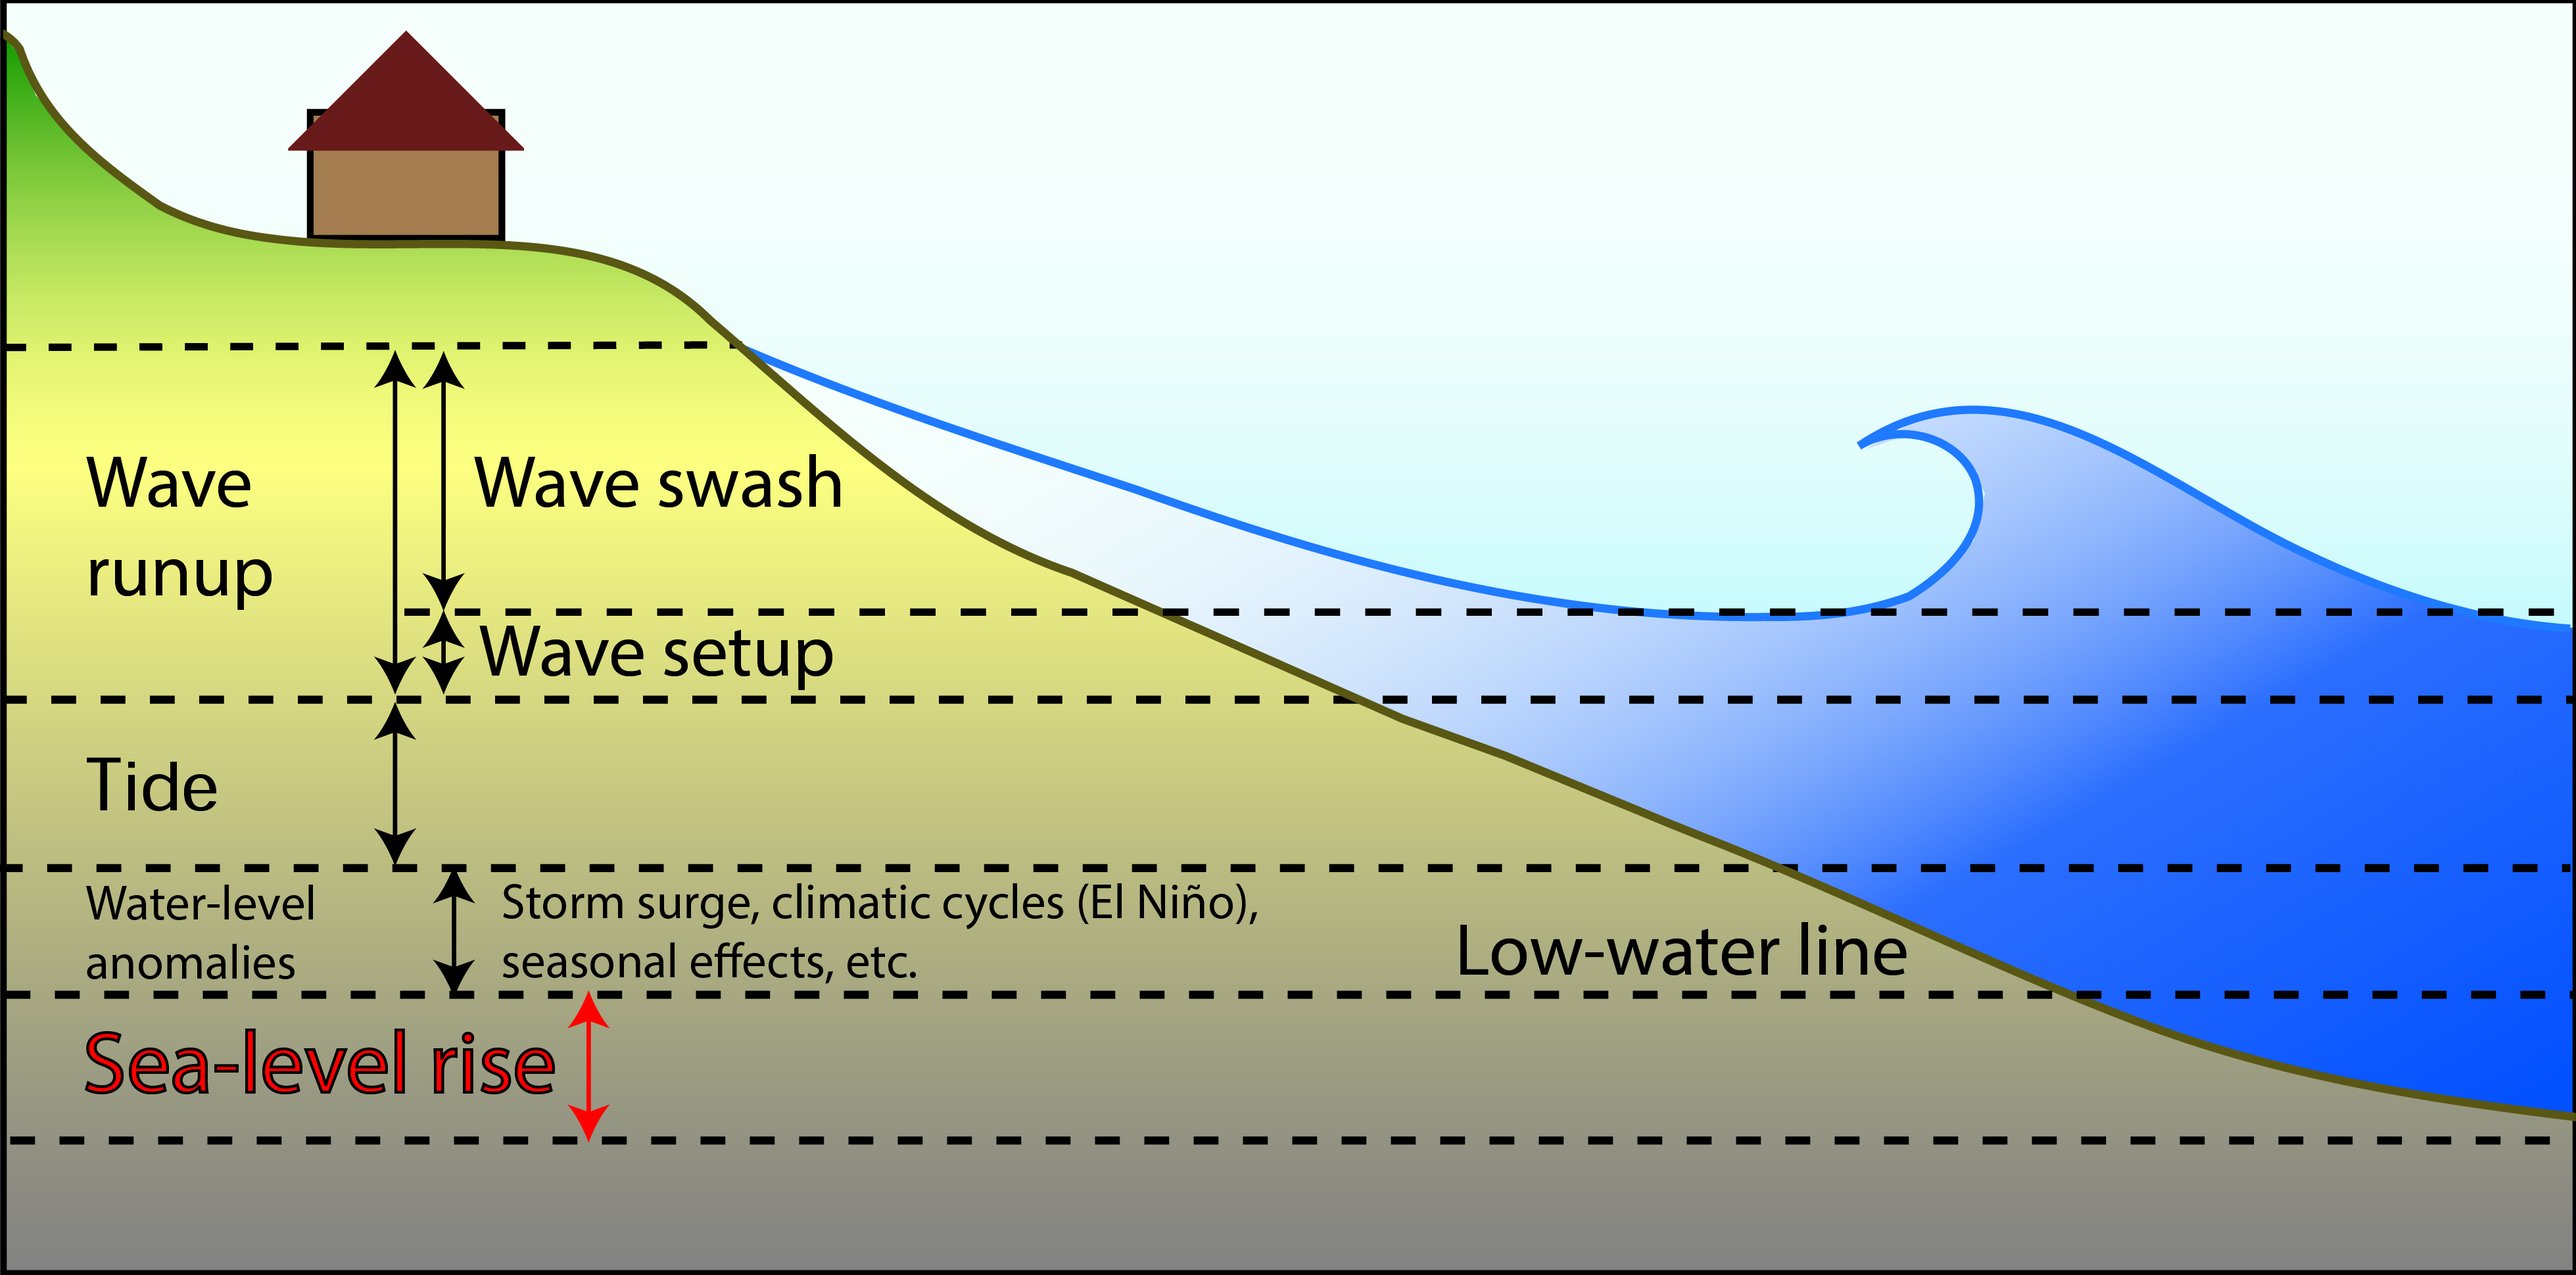
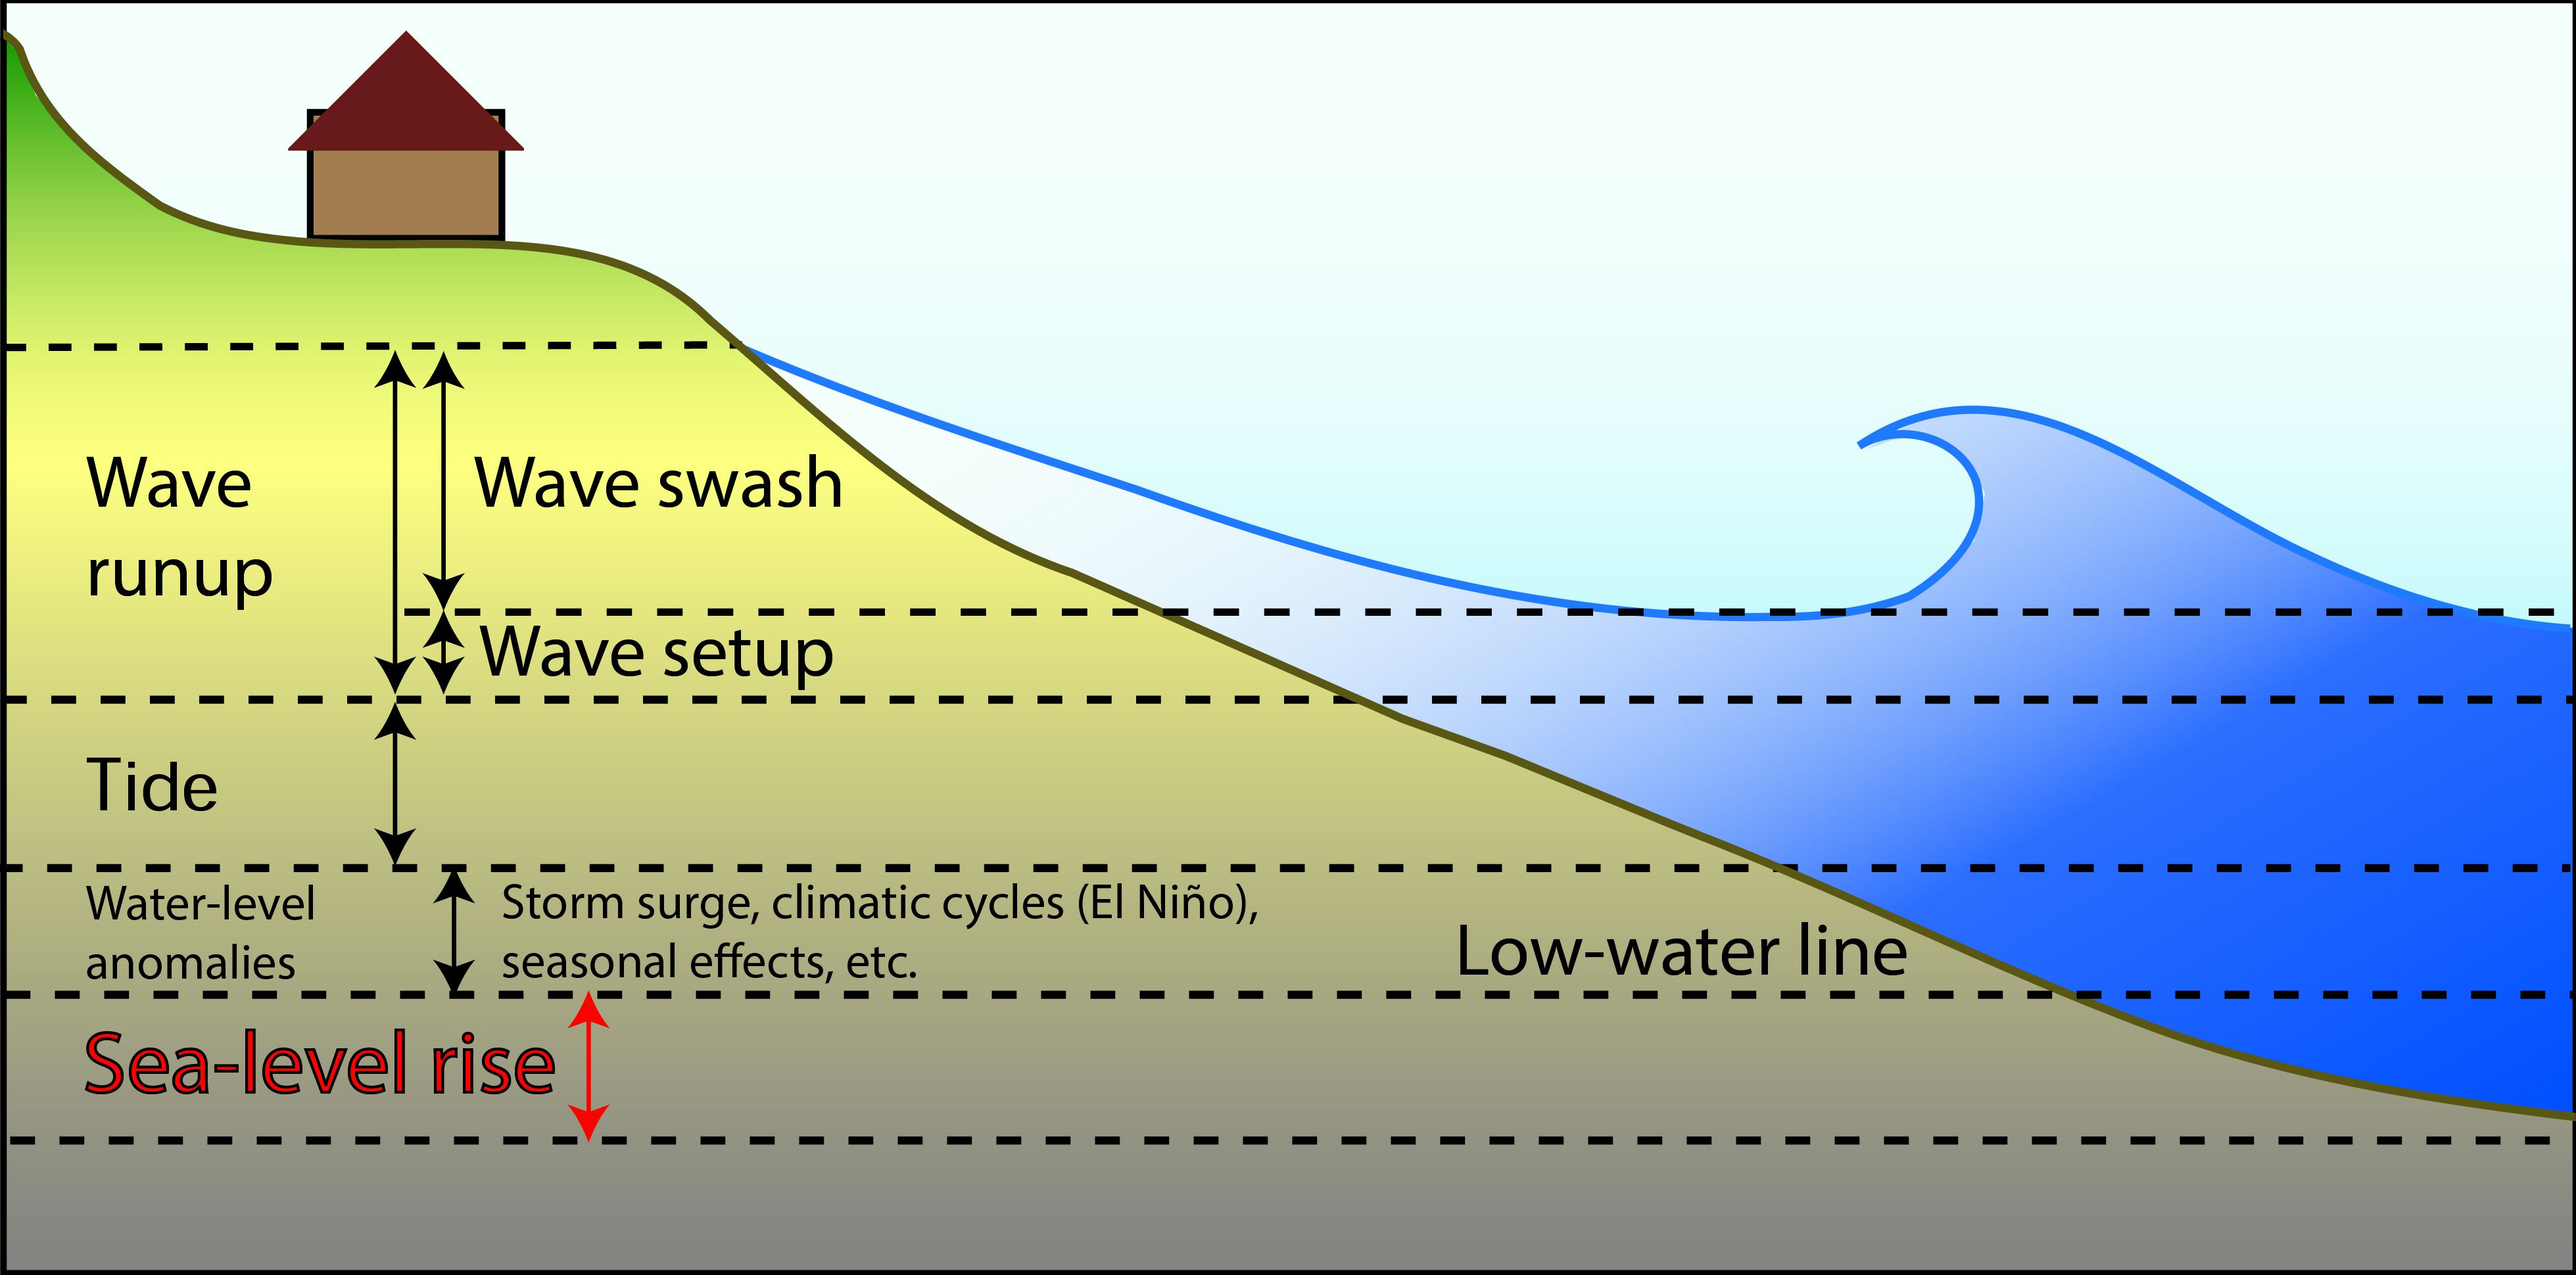
Resize README.rst figure

Changed region(s): [[0.9964, 0.4948, 1.0, 0.866], [0.0311, 0.8351, 0.1557, 0.866], [0.1868, 0.8351, 0.218, 0.866]]

diff --git a/README.rst b/README.rst
@@ -98,6 +98,8 @@ Setup, swash and other components of Total Water Level (TWL) rise are shown in t
 handy figure below.
 
 .. image:: ./docs/_static/VitousekDoubling2017Fig1.jpg
+   :width: 500 px
+   :align: center
 ..
 
     | Figure from Vitousek et al. (2017) [#vit17]_
